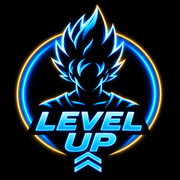
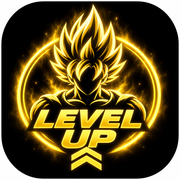
Add files via upload

diff --git a/service-worker.js b/service-worker.js
@@ -1,5 +1,5 @@
-const CACHE='level-up-fitness-v46-assessment-ranking-fix-20260904';
+const CACHE='level-up-fitness-v47-gold-faceless-logo-20260904';
 const PREFIX='level-up-fitness-';
-self.addEventListener('install',e=>{self.skipWaiting();e.waitUntil(caches.open(CACHE).then(c=>c.addAll(['./','./index.html','./manifest.webmanifest','./icon-192.png','./icon-512.png','./apple-touch-icon.png','./assets/level_up_logo_final_v45.png'])))});
+self.addEventListener('install',e=>{self.skipWaiting();e.waitUntil(caches.open(CACHE).then(c=>c.addAll(['./','./index.html','./manifest.webmanifest','./icon-192.png','./icon-512.png','./apple-touch-icon.png','./assets/level_up_logo_gold_faceless_FINAL_v47.png'])))});
 self.addEventListener('activate',e=>{e.waitUntil(caches.keys().then(keys=>Promise.all(keys.filter(k=>k.startsWith(PREFIX)&&k!==CACHE).map(k=>caches.delete(k)))).then(()=>self.clients.claim()))});
 self.addEventListener('fetch',e=>{if(e.request.method!=='GET')return;e.respondWith(fetch(e.request).then(r=>{const copy=r.clone();caches.open(CACHE).then(c=>c.put(e.request,copy));return r}).catch(()=>caches.match(e.request).then(r=>r||caches.match('./index.html'))))});

diff --git a/index.html b/index.html
@@ -820,7 +820,7 @@ html{background:#050b12}.wrap{padding-bottom:96px!important}.card{border:1px sol
 }
 </style>
 </head><body>
-<header class="levelup-header"><div class="levelup-brand"><img src="assets/level_up_logo_final_v45.png" alt="" class="levelup-mark"><div class="levelup-wordmark"><span>LEVEL</span><strong>UP</strong></div></div></header>
+<header class="levelup-header"><div class="levelup-brand"><img src="assets/level_up_logo_gold_faceless_FINAL_v47.png" alt="" class="levelup-mark"><div class="levelup-wordmark"><span>LEVEL</span><strong>UP</strong></div></div></header>
 <div class="wrap">
 <div id="progressView" class="tab-view active">
   <div class="card hero"><div class="eyebrow">Current fitness level</div><div id="currentChar" class="big">Hawkeye</div><div id="heroMedia"><img src="assets/01_hawkeye_v36.jpeg" alt="Hawkeye" class="demo-image-clean char-image show"></div><div id="currentMeta" class="meta">Level 1 • Foundation</div><div class="progress"><div id="bar" class="bar"></div></div><div id="nextBox" class="next-level-card"><h3>Next Level</h3><div>Enter your current bests, assessments and tap Calculate Rankings.</div></div></div>
